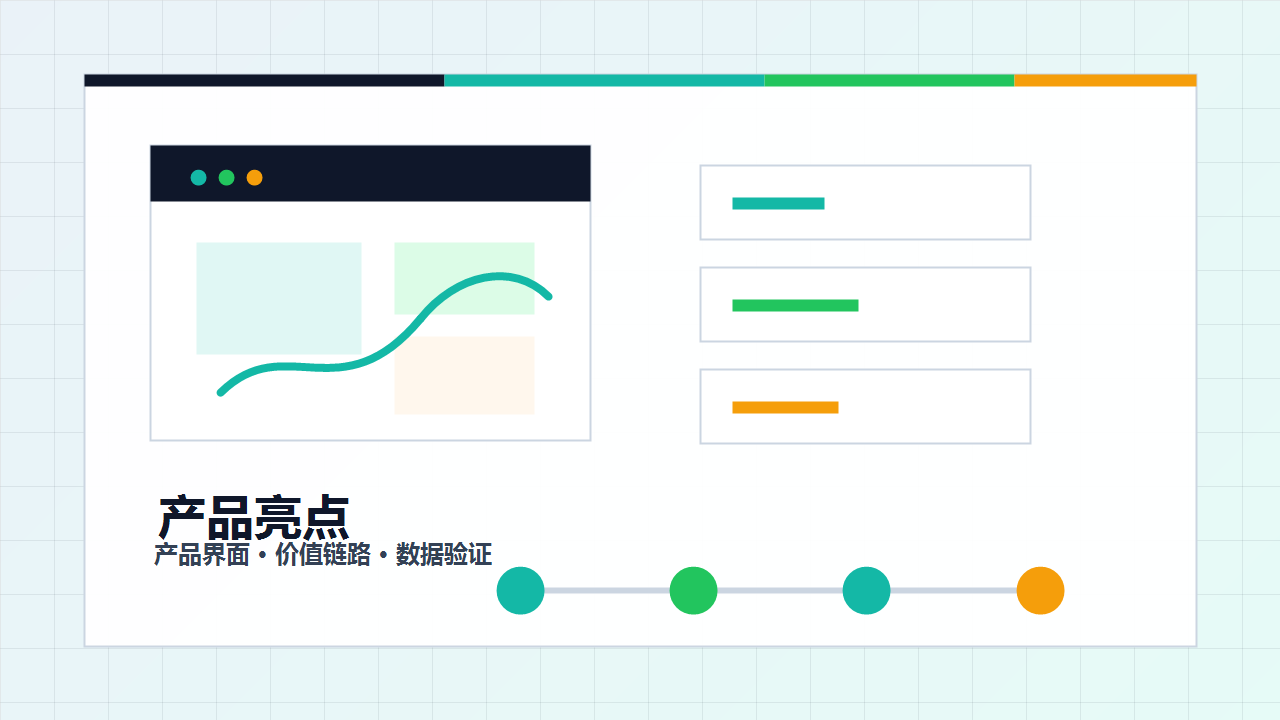
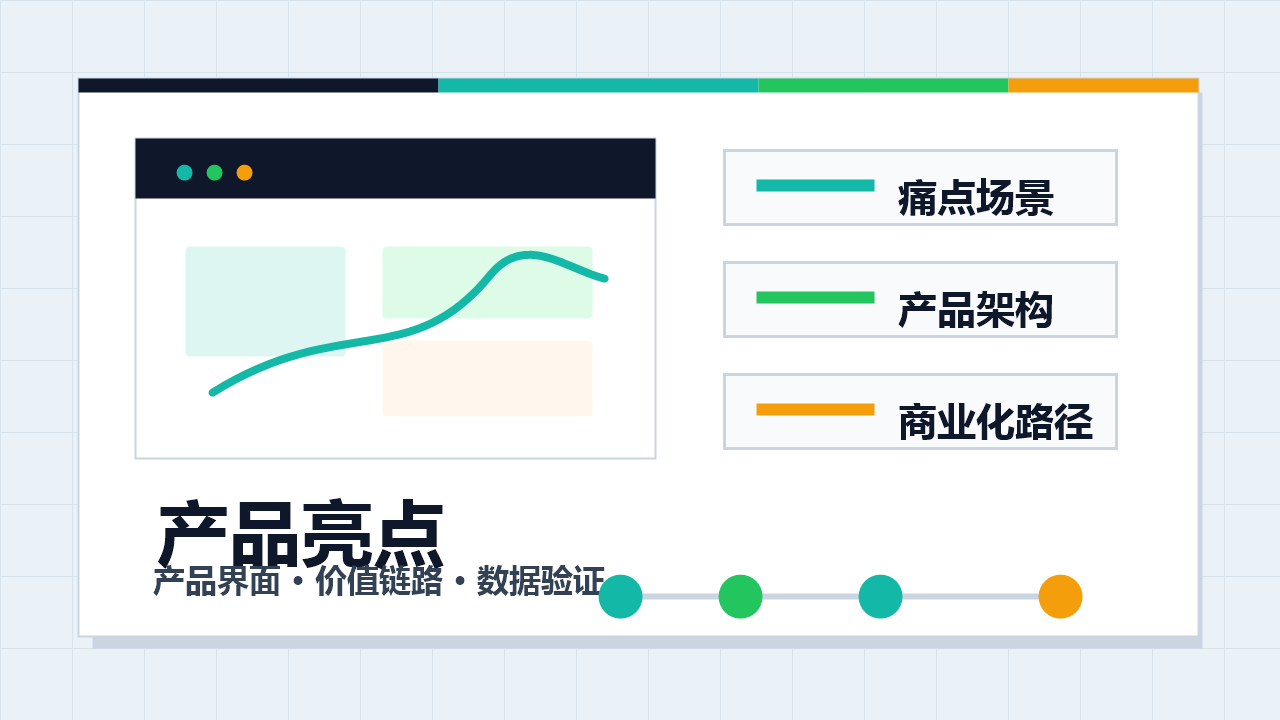
fix(ppt-template): 修复创业融资产品亮点预览卡片

diff --git a/ppt-ai-app/src/app.js b/ppt-ai-app/src/app.js
@@ -1155,7 +1155,7 @@ function renderWorkspace({ defaultEntitlementId } = {}) {
     .template-category-grid { display: grid; grid-template-columns: repeat(auto-fill, minmax(240px, 1fr)); gap: 12px; }
     .template-manage-split { height: 8px; }
     .template-card {
-      display: grid; gap: 13px; width: 100%; padding: 10px; border: 1px solid #e5e7eb; border-radius: 12px;
+      display: grid; justify-content: stretch; align-items: stretch; gap: 13px; width: 100%; padding: 10px; border: 1px solid #e5e7eb; border-radius: 12px;
       background: #fff; color: var(--text); text-align: center; box-shadow: 0 12px 28px rgba(16,24,40,.05); transform: none;
     }
     .template-card:hover { background: #fff; border-color: #b8ccf0; box-shadow: 0 18px 38px rgba(31,94,255,.12); transform: translateY(-2px); }
@@ -1179,7 +1179,7 @@ function renderWorkspace({ defaultEntitlementId } = {}) {
     .create-template-list-title strong { color: #0f172a; font-size: 14px; line-height: 1.35; }
     .create-template-list-title span { color: var(--muted); font-size: 12px; line-height: 1.45; }
     .create-template-list-count { flex: 0 0 auto; border: 1px solid #dbeafe; border-radius: 999px; background: #f8fbff; color: #1d4ed8; padding: 4px 8px; font-size: 11px; font-weight: 800; white-space: nowrap; }
-    .create-template-grid { display: grid; grid-template-columns: 1fr; gap: 12px; }
+    .create-template-grid { display: grid; grid-template-columns: repeat(auto-fill, minmax(220px, 260px)); gap: 12px; align-items: start; }
     .create-template-grid .template-card { gap: 10px; padding: 9px; text-align: left; border-radius: 12px; }
     .create-template-grid .template-card-title { padding: 0 3px 2px; font-size: 13px; line-height: 1.35; }
     .create-template-grid .template-card-meta { padding: 0 3px 1px; }
@@ -1187,7 +1187,7 @@ function renderWorkspace({ defaultEntitlementId } = {}) {
     .create-template-more { min-height: 38px; border-radius: 12px; border: 1px solid #c9d9f4; background: #f8fbff; color: #1d4ed8; font-size: 13px; font-weight: 800; }
     .create-template-more:hover { background: #eef5ff; border-color: #b8ccf0; }
     .template-thumb {
-      position: relative; aspect-ratio: 16 / 9; overflow: hidden; border-radius: 10px; border: 1px solid rgba(23,32,51,.08);
+      display: block; justify-self: stretch; width: 100%; min-width: 0; position: relative; aspect-ratio: 16 / 9; overflow: hidden; border-radius: 10px; border: 1px solid rgba(23,32,51,.08);
       background: var(--thumb-bg); color: var(--thumb-body); box-shadow: inset 0 0 0 1px rgba(255,255,255,.70), 0 12px 26px rgba(15,23,42,.08);
     }
     .template-thumb[data-has-thumbnail="true"] { background-image: var(--template-thumbnail); background-size: cover; background-position: center; box-shadow: inset 0 0 0 1px rgba(255,255,255,.30), 0 14px 28px rgba(15,23,42,.10); }
@@ -1476,12 +1476,24 @@ function renderWorkspace({ defaultEntitlementId } = {}) {
     .template-thumb[data-layout="venture"][data-thumb-variant="left-title"] .template-thumb-cover { border-left: 5px solid var(--thumb-accent); }
     /* 创业融资产品亮点缩略图用控制台、功能卡和价值链路表达产品型路演。 */
     .template-thumb[data-layout="startup-product-highlights"] { background: linear-gradient(135deg, #eaf2f8 0%, #ffffff 46%, #edf7fb 100%); }
+    /* 已同步真实缩略图时优先展示设计稿，避免布局装饰层覆盖后台缩略图。 */
+    .template-thumb[data-layout="startup-product-highlights"][data-has-thumbnail="true"] { background-image: var(--template-thumbnail); background-size: cover; background-position: center; }
+    .template-thumb[data-layout="startup-product-highlights"][data-has-thumbnail="true"]::before,
+    .template-thumb[data-layout="startup-product-highlights"][data-has-thumbnail="true"]::after { display: none; }
+    .template-thumb[data-layout="startup-product-highlights"][data-has-thumbnail="true"] > span { display: none; }
     .template-thumb[data-layout="startup-product-highlights"]::before { background: radial-gradient(circle at 82% 18%, color-mix(in srgb, var(--thumb-accent) 24%, transparent), transparent 24%), repeating-linear-gradient(90deg, rgba(15,23,42,.045) 0 1px, transparent 1px 34px), repeating-linear-gradient(0deg, rgba(15,23,42,.035) 0 1px, transparent 1px 30px); }
-    .template-thumb[data-layout="startup-product-highlights"] .template-thumb-cover { left: 7%; right: 7%; top: 14%; bottom: 12%; border-radius: 18px; background: rgba(255,255,255,.94); border: 1px solid color-mix(in srgb, var(--thumb-primary) 12%, transparent); box-shadow: 0 18px 34px rgba(15,23,42,.16); }
+    .template-thumb[data-layout="startup-product-highlights"]::after { left: 6%; right: 6%; top: 11%; bottom: 11%; border-radius: 16px; background: rgba(255,255,255,.90); }
+    .template-thumb[data-layout="startup-product-highlights"] .template-thumb-back { display: none; }
+    .template-thumb[data-layout="startup-product-highlights"] .template-thumb-cover { left: 8%; right: 44%; top: 20%; bottom: 24%; align-content: center; padding: 7% 6%; border-radius: 14px; background: rgba(255,255,255,.96); border: 1px solid color-mix(in srgb, var(--thumb-primary) 12%, transparent); box-shadow: 0 14px 26px rgba(15,23,42,.12); }
+    .template-thumb[data-layout="startup-product-highlights"] .template-thumb-date,
+    .template-thumb[data-layout="startup-product-highlights"] .template-thumb-kicker,
+    .template-thumb[data-layout="startup-product-highlights"] .template-thumb-summary { color: color-mix(in srgb, var(--thumb-body) 86%, transparent); }
+    .template-thumb[data-layout="startup-product-highlights"] .template-thumb-heading { min-height: 28px; color: var(--thumb-title); font-size: 15px; line-height: 1.06; text-shadow: none; }
     .template-thumb[data-layout="startup-product-highlights"] .template-thumb-band { left: 7%; right: 7%; top: 14%; height: 7px; border-radius: 999px; background: linear-gradient(90deg, var(--thumb-primary), var(--thumb-accent), var(--thumb-secondary), var(--thumb-warning)); }
     .template-thumb[data-layout="startup-product-highlights"] .template-thumb-image { right: 10%; top: 25%; width: 31%; height: 39%; border-radius: 16px; background: linear-gradient(180deg, var(--thumb-primary) 0 18%, #ffffff 18% 100%); border: 1px solid color-mix(in srgb, var(--thumb-primary) 18%, transparent); box-shadow: 0 14px 26px rgba(15,23,42,.14); }
+    .template-thumb[data-layout="startup-product-highlights"] .template-thumb-image::before { background: linear-gradient(var(--thumb-accent), var(--thumb-accent)) 18% 42% / 46% 6% no-repeat, linear-gradient(var(--thumb-secondary), var(--thumb-secondary)) 18% 58% / 62% 6% no-repeat, linear-gradient(var(--thumb-warning), var(--thumb-warning)) 18% 74% / 34% 6% no-repeat, radial-gradient(circle at 78% 36%, var(--thumb-accent) 0 7%, transparent 8%), radial-gradient(circle at 78% 62%, var(--thumb-secondary) 0 7%, transparent 8%); }
     .template-thumb[data-layout="startup-product-highlights"] .template-thumb-image::after { left: 13%; right: 13%; bottom: 18%; height: 7px; border-radius: 999px; background: var(--thumb-accent); box-shadow: 0 -18px 0 color-mix(in srgb, var(--thumb-secondary) 62%, #ffffff 38%), 0 -36px 0 color-mix(in srgb, var(--thumb-warning) 62%, #ffffff 38%); }
-    .template-thumb[data-layout="startup-product-highlights"] .template-thumb-wave { left: 11%; right: 45%; bottom: 20%; height: 12%; border-radius: 16px; background: linear-gradient(90deg, color-mix(in srgb, var(--thumb-accent) 18%, #ffffff 82%), color-mix(in srgb, var(--thumb-secondary) 18%, #ffffff 82%)); clip-path: none; opacity: 1; }
+    .template-thumb[data-layout="startup-product-highlights"] .template-thumb-wave { left: 9%; right: 9%; bottom: 14%; height: 8%; border-radius: 999px; background: linear-gradient(90deg, var(--thumb-primary) 0 22%, transparent 22% 28%, var(--thumb-accent) 28% 52%, transparent 52% 58%, var(--thumb-secondary) 58% 82%, transparent 82% 88%, var(--thumb-warning) 88%); clip-path: none; opacity: .94; }
     .template-thumb[data-layout="startup-product-highlights"] .template-thumb-tag { background: var(--thumb-accent); color: #0f172a; }
     .template-thumb[data-template="pitch"][data-layout="venture"] { background: linear-gradient(120deg, color-mix(in srgb, var(--thumb-primary) 96%, #000 4%), var(--thumb-primary) 52%, color-mix(in srgb, var(--thumb-accent) 24%, var(--thumb-primary) 76%)); }
     .template-thumb[data-template="pitch"][data-layout="venture"]::before { background:
@@ -2442,7 +2454,7 @@ function renderWorkspace({ defaultEntitlementId } = {}) {
       const copy = templateThumbCopy(display);
       const variant = templateThumbVariant(display.id || display.style || display.categoryId || displayLayout, display);
       const thumbnailUrl = display.thumbnailUrl ? "url('" + cssUrl(display.thumbnailUrl) + "')" : "";
-      const style = "--thumb-primary:#" + displayVisual.primary + ";--thumb-accent:#" + displayVisual.accent + ";--thumb-bg:#" + displayVisual.background + ";--thumb-surface:#" + displayVisual.surface + ";--thumb-title:#" + displayVisual.title + ";--thumb-body:#" + displayVisual.body + ";--thumb-cover-left:" + variant.coverLeft + "%;--thumb-cover-right:" + variant.coverRight + "%;--thumb-cover-top:" + variant.coverTop + "%;--thumb-image-top:" + variant.imageTop + "%;--thumb-image-width:" + variant.imageWidth + "%;--thumb-wave-height:" + variant.waveHeight + "%;" + (thumbnailUrl ? "--template-thumbnail:" + thumbnailUrl + ";" : "");
+      const style = "--thumb-primary:#" + displayVisual.primary + ";--thumb-accent:#" + displayVisual.accent + ";--thumb-secondary:#" + displayVisual.secondary + ";--thumb-warning:#" + displayVisual.warning + ";--thumb-bg:#" + displayVisual.background + ";--thumb-surface:#" + displayVisual.surface + ";--thumb-title:#" + displayVisual.title + ";--thumb-body:#" + displayVisual.body + ";--thumb-cover-left:" + variant.coverLeft + "%;--thumb-cover-right:" + variant.coverRight + "%;--thumb-cover-top:" + variant.coverTop + "%;--thumb-image-top:" + variant.imageTop + "%;--thumb-image-width:" + variant.imageWidth + "%;--thumb-wave-height:" + variant.waveHeight + "%;" + (thumbnailUrl ? "--template-thumbnail:" + thumbnailUrl + ";" : "");
       return ''
         + '<span class="template-thumb" data-template="' + escapeHtml(display.id || "") + '" data-layout="' + escapeHtml(displayLayout) + '" data-thumb-variant="' + escapeHtml(variant.name) + '" data-has-dome-asset="' + (hasDomeAsset ? 'true' : 'false') + '" data-has-thumbnail="' + (thumbnailUrl ? 'true' : 'false') + '" style="' + style + '">'
         + '<span class="template-thumb-back template-thumb-back-left"></span><span class="template-thumb-back template-thumb-back-right"></span>'
@@ -2566,6 +2578,8 @@ function renderWorkspace({ defaultEntitlementId } = {}) {
       return {
         primary: normalizeHexColor(visual.primary, "2563EB"),
         accent: normalizeHexColor(visual.accent, "14B8A6"),
+        secondary: normalizeHexColor(visual.secondary, "22C55E"),
+        warning: normalizeHexColor(visual.warning, "F59E0B"),
         background: normalizeHexColor(visual.background, "F8FAFC"),
         surface: normalizeHexColor(visual.surface, "FFFFFF"),
         title: normalizeHexColor(visual.title, "0F172A"),
@@ -2580,6 +2594,8 @@ function renderWorkspace({ defaultEntitlementId } = {}) {
         ...baseVisual,
         primary: normalizeHexColor(theme.visual.primary, baseVisual.primary),
         accent: normalizeHexColor(theme.visual.accent, baseVisual.accent),
+        secondary: normalizeHexColor(theme.visual.secondary, baseVisual.secondary),
+        warning: normalizeHexColor(theme.visual.warning, baseVisual.warning),
         background: normalizeHexColor(theme.visual.background, baseVisual.background),
         surface: normalizeHexColor(theme.visual.surface, baseVisual.surface),
         title: normalizeHexColor(theme.visual.title, baseVisual.title),
